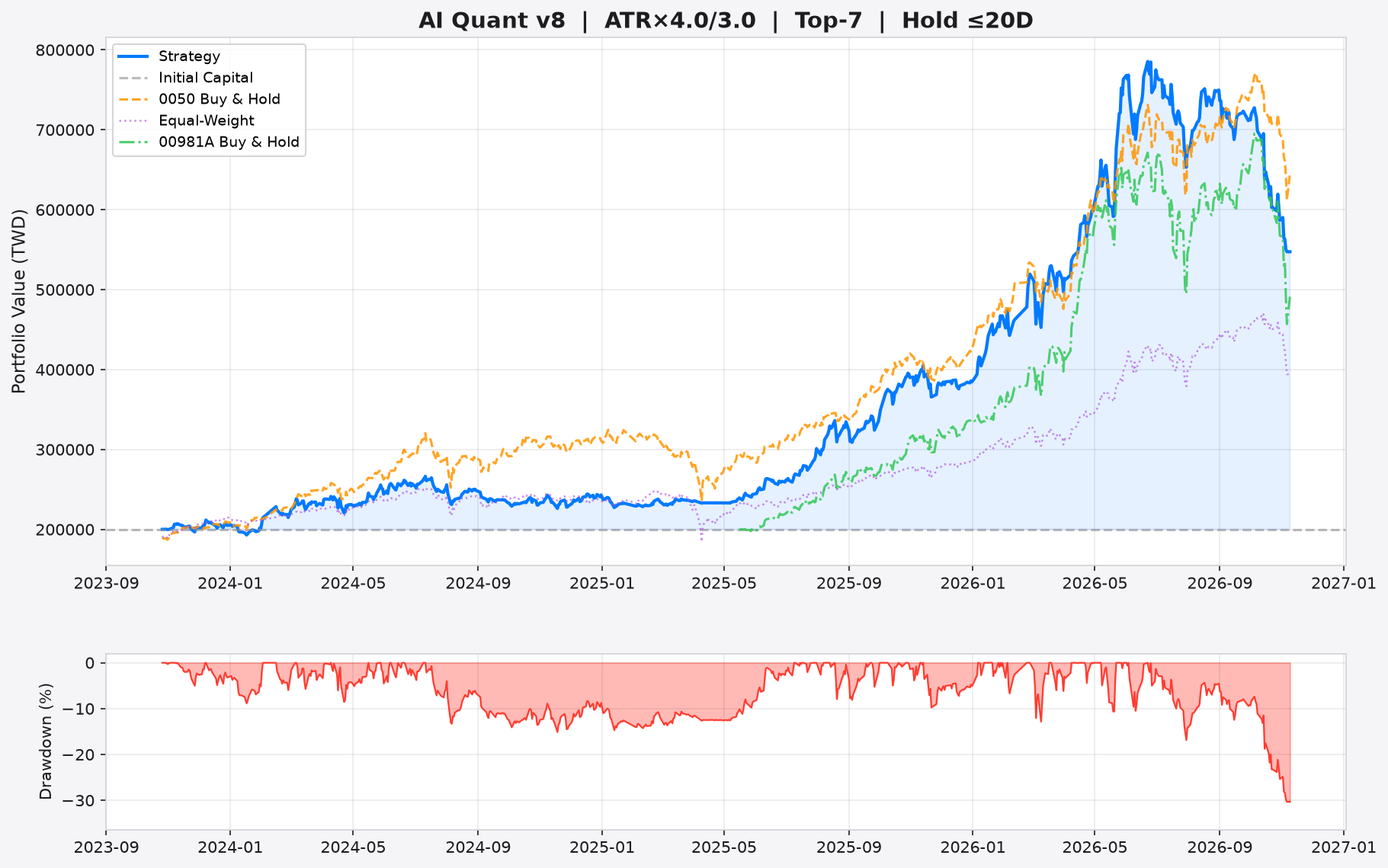
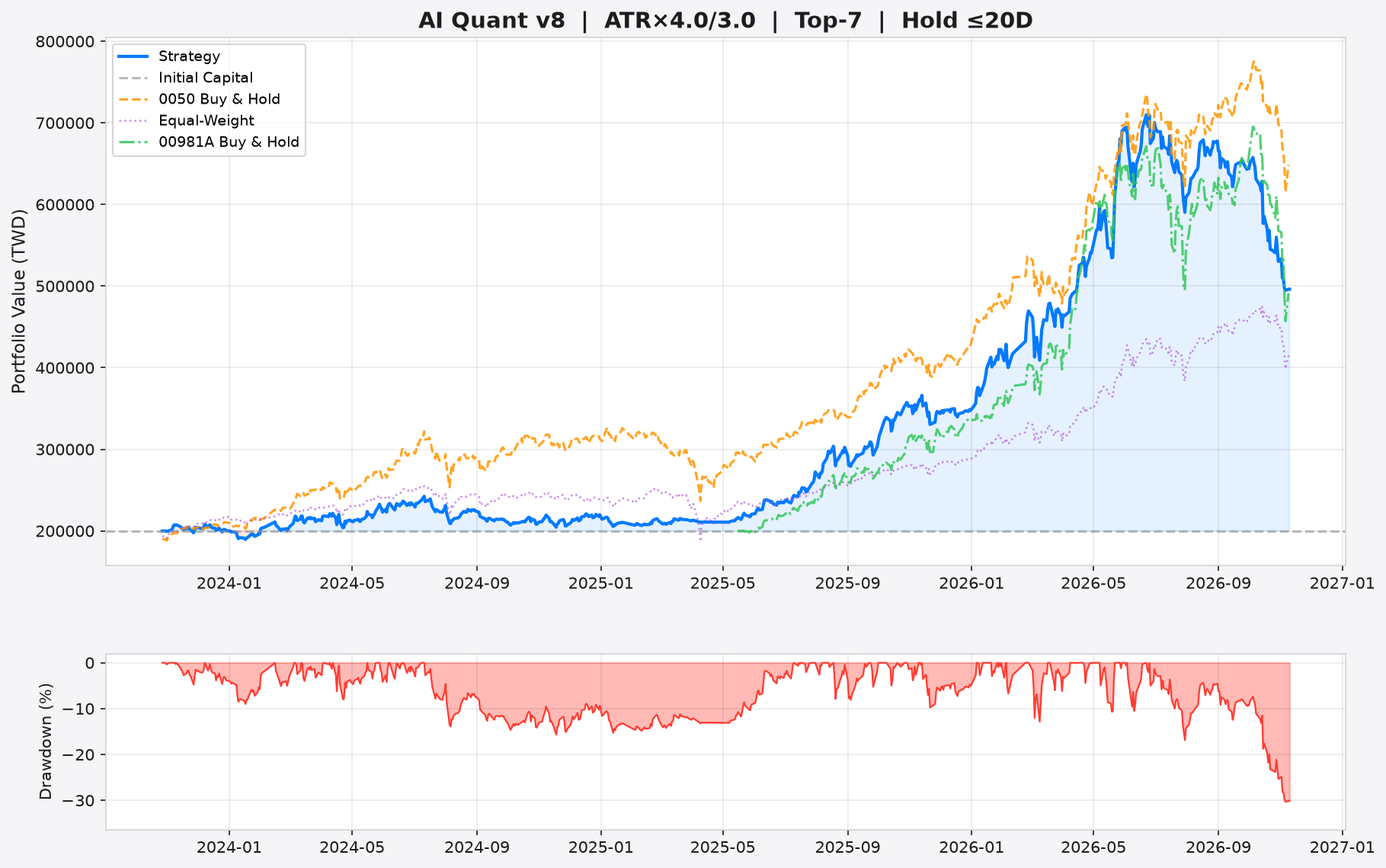
📊 AI Report v8.5 + Paper Trading (2026-11-10)

diff --git a/stock_report.html b/stock_report.html
@@ -3,7 +3,7 @@
 <head>
     <meta charset="utf-8">
     <meta name="viewport" content="width=device-width, initial-scale=1.0">
-    <title>AI 台股量化交易 v8.5 — 2026-11-09</title>
+    <title>AI 台股量化交易 v8.5 — 2026-11-10</title>
     <meta name="description" content="AI 驅動的台股量化交易系統 v8.5，完整風險報告、Benchmark 對比、OCO 智慧掛單建議">
     <script>
         (function() {
@@ -292,7 +292,7 @@
 
     <h1>🎯 AI 台股量化交易 v8.5</h1>
     <p class="subtitle">
-        Event-Driven System &nbsp;|&nbsp; 報表日期: 2026-11-09 &nbsp;|&nbsp;
+        Event-Driven System &nbsp;|&nbsp; 報表日期: 2026-11-10 &nbsp;|&nbsp;
         <span class="config-badge">🛡 ATR×4.0/3.0</span>
         <span class="config-badge">🎯 Top-7</span>
         <span class="config-badge">⏱ 最長 20 天</span>
@@ -303,23 +303,23 @@
     <div class="stats">
         <div class="stat-card">
             <div class="label">策略總報酬率</div>
-            <div class="value" style="color:#00ff00;">+173.7%</div>
+            <div class="value" style="color:#00ff00;">+148.1%</div>
         </div>
         <div class="stat-card">
             <div class="label">年化報酬率</div>
-            <div class="value" style="color:#00ff00;">+41.2%</div>
+            <div class="value" style="color:#00ff00;">+36.5%</div>
         </div>
         <div class="stat-card">
             <div class="label">年化波動率</div>
-            <div class="value">27.6%</div>
+            <div class="value">27.3%</div>
         </div>
         <div class="stat-card risk">
             <div class="label">Sharpe Ratio</div>
-            <div class="value" style="color:#00ff00;">1.39</div>
+            <div class="value" style="color:#00ff00;">1.28</div>
         </div>
         <div class="stat-card risk">
             <div class="label">Sortino Ratio</div>
-            <div class="value">1.98</div>
+            <div class="value">1.76</div>
         </div>
         <div class="stat-card risk">
             <div class="label">最大回撤</div>
@@ -327,7 +327,7 @@
         </div>
         <div class="stat-card risk">
             <div class="label">Calmar Ratio</div>
-            <div class="value">1.36</div>
+            <div class="value">1.20</div>
         </div>
         <div class="stat-card">
             <div class="label">完成交易數</div>
@@ -335,15 +335,15 @@
         </div>
         <div class="stat-card">
             <div class="label">勝率</div>
-            <div class="value" style="color:#00ff00;">54.0%</div>
+            <div class="value" style="color:#00ff00;">52.9%</div>
         </div>
         <div class="stat-card">
             <div class="label">Profit Factor</div>
-            <div class="value">1.50</div>
+            <div class="value">1.45</div>
         </div>
         <div class="stat-card">
             <div class="label">平均報酬/筆</div>
-            <div class="value">+2.32%</div>
+            <div class="value">+2.11%</div>
         </div>
         <div class="stat-card">
             <div class="label">平均持有天數</div>
@@ -370,18 +370,23 @@
             </tr>
         </thead>
         <tbody>
-<tr><td>2412</td><td>4.00</td><td>163.5</td><td><span style="color:#00ff00; font-weight:bold;">🟢 建議買進 #1</span></td><td><b>停利:</b> <span style="color:#00ff00">188.0</span> (+15.0%) <br><b>停損:</b> <span style="color:#ff4444">150.4</span> (-8.0%) <br><b>最晚出場:</b> 2026-12-07</td><td><span style="font-size:0.72rem; color:#888;">歷史 <b>2</b>筆 | 勝率 <b style="color:#00ff00">100%</b> | 均報酬 <b style="color:#00ff00">+1.6%</b></span></td><td><span style="font-size:0.78rem;">🟡 小買<br><span style="color:#ffab00; font-weight:bold;">+1.1%</span></span></td><td><span style="font-size:0.78rem;">⚪ 中性</span></td></tr>
-<tr><td>2891</td><td>3.90</td><td>73.4</td><td><span style="color:#00ff00; font-weight:bold;">🟢 建議買進 #2</span></td><td><b>停利:</b> <span style="color:#00ff00">84.4</span> (+15.0%) <br><b>停損:</b> <span style="color:#ff4444">67.5</span> (-8.0%) <br><b>最晚出場:</b> 2026-12-07</td><td><span style="font-size:0.72rem; color:#888;">歷史 <b>3</b>筆 | 勝率 <b style="color:#00ff00">67%</b> | 均報酬 <b style="color:#ff4444">-2.1%</b></span></td><td><span style="font-size:0.78rem;">⚪ 無資料<br><span style="color:#888; font-weight:bold;">+0.0%</span></span></td><td><span style="font-size:0.78rem;">⚪ 中性</span></td></tr>
-<tr><td>2886</td><td>3.87</td><td>53.5</td><td><span style="color:#00ff00; font-weight:bold;">🟢 建議買進 #3</span></td><td><b>停利:</b> <span style="color:#00ff00">61.5</span> (+15.0%) <br><b>停損:</b> <span style="color:#ff4444">49.2</span> (-8.0%) <br><b>最晚出場:</b> 2026-12-07</td><td><span style="font-size:0.72rem; color:#555;">歷史資料不足</span></td><td><span style="font-size:0.78rem;">⚪ 無資料<br><span style="color:#888; font-weight:bold;">+0.0%</span></span></td><td><span style="font-size:0.78rem;">⚪ 中性</span></td></tr>
-<tr><td>3045</td><td>3.83</td><td>133.0</td><td><span style="color:#00ff00; font-weight:bold;">🟢 建議買進 #4</span></td><td><b>停利:</b> <span style="color:#00ff00">152.9</span> (+15.0%) <br><b>停損:</b> <span style="color:#ff4444">122.4</span> (-8.0%) <br><b>最晚出場:</b> 2026-12-07</td><td><span style="font-size:0.72rem; color:#888;">歷史 <b>3</b>筆 | 勝率 <b style="color:#ff4444">33%</b> | 均報酬 <b style="color:#ff4444">-0.1%</b></span></td><td><span style="font-size:0.78rem;">🟡 小買<br><span style="color:#ffab00; font-weight:bold;">+0.7%</span></span></td><td><span style="font-size:0.78rem;">⚪ 中性</span></td></tr>
-<tr><td>2603</td><td>3.65</td><td>246.5</td><td><span style="color:#00ff00; font-weight:bold;">🟢 建議買進 #5</span></td><td><b>停利:</b> <span style="color:#00ff00">283.5</span> (+15.0%) <br><b>停損:</b> <span style="color:#ff4444">226.8</span> (-8.0%) <br><b>最晚出場:</b> 2026-12-07</td><td><span style="font-size:0.72rem; color:#888;">歷史 <b>10</b>筆 | 勝率 <b style="color:#ff4444">20%</b> | 均報酬 <b style="color:#ff4444">-4.5%</b></span></td><td><span style="font-size:0.78rem;">🟡 小買<br><span style="color:#ffab00; font-weight:bold;">+1.6%</span></span></td><td><span style="font-size:0.78rem;">⚪ 中性</span></td></tr>
-<tr><td>2884</td><td>3.63</td><td>47.0</td><td><span style="color:#00ff00; font-weight:bold;">🟢 建議買進 #6</span></td><td><b>停利:</b> <span style="color:#00ff00">54.0</span> (+15.0%) <br><b>停損:</b> <span style="color:#ff4444">43.2</span> (-8.0%) <br><b>最晚出場:</b> 2026-12-07</td><td><span style="font-size:0.72rem; color:#888;">歷史 <b>6</b>筆 | 勝率 <b style="color:#00ff00">67%</b> | 均報酬 <b style="color:#ff4444">-0.6%</b></span></td><td><span style="font-size:0.78rem;">⚪ 無資料<br><span style="color:#888; font-weight:bold;">+0.0%</span></span></td><td><span style="font-size:0.78rem;">⚪ 中性</span></td></tr>
-<tr><td>1101</td><td>3.57</td><td>26.8</td><td><span style="color:#00ff00; font-weight:bold;">🟢 建議買進 #7</span></td><td><b>停利:</b> <span style="color:#00ff00">30.8</span> (+15.0%) <br><b>停損:</b> <span style="color:#ff4444">24.6</span> (-8.0%) <br><b>最晚出場:</b> 2026-12-07</td><td><span style="font-size:0.72rem; color:#555;">歷史資料不足</span></td><td><span style="font-size:0.78rem;">⚪ 無資料<br><span style="color:#888; font-weight:bold;">+0.0%</span></span></td><td><span style="font-size:0.78rem;">⚪ 中性</span></td></tr>
-<tr style="opacity:0.4"><td>6446</td><td>3.68</td><td>1270.0</td><td><span style="color:#aaaaaa">⚪ 觀望 (低於 MA)</span></td><td>-</td><td>-</td><td style="color:#555">-</td><td style="color:#555">-</td></tr>
-<tr style="opacity:0.4"><td>4938</td><td>3.45</td><td>92.9</td><td><span style="color:#aaaaaa">⚪ 觀望 (低於 MA)</span></td><td>-</td><td>-</td><td style="color:#555">-</td><td style="color:#555">-</td></tr>
-<tr style="opacity:0.4"><td>2885</td><td>3.38</td><td>66.9</td><td><span style="color:#aaaaaa">⚪ 觀望 (低於 MA)</span></td><td>-</td><td>-</td><td style="color:#555">-</td><td style="color:#555">-</td></tr>
-<tr style="opacity:0.4"><td>2881</td><td>3.37</td><td>148.0</td><td><span style="color:#aaaaaa">⚪ 觀望 (低於 MA)</span></td><td>-</td><td>-</td><td style="color:#555">-</td><td style="color:#555">-</td></tr>
-<tr style="opacity:0.4"><td>2882</td><td>3.22</td><td>106.0</td><td><span style="color:#aaaaaa">⚪ 觀望 (低於 MA)</span></td><td>-</td><td>-</td><td style="color:#555">-</td><td style="color:#555">-</td></tr>
+<tr><td>6446</td><td>3.97</td><td>1370.0</td><td><span style="color:#00ff00; font-weight:bold;">🟢 建議買進 #1</span></td><td><b>停利:</b> <span style="color:#00ff00">1575.5</span> (+15.0%) <br><b>停損:</b> <span style="color:#ff4444">1260.4</span> (-8.0%) <br><b>最晚出場:</b> 2026-12-08</td><td><span style="font-size:0.72rem; color:#888;">歷史 <b>10</b>筆 | 勝率 <b style="color:#00ff00">50%</b> | 均報酬 <b style="color:#00ff00">+2.2%</b></span></td><td><span style="font-size:0.78rem;">🟠 小賣<br><span style="color:#ffab00; font-weight:bold;">-0.8%</span></span></td><td><span style="font-size:0.78rem;">⚪ 中性</span></td></tr>
+<tr><td>2891</td><td>3.95</td><td>75.9</td><td><span style="color:#00ff00; font-weight:bold;">🟢 建議買進 #2</span></td><td><b>停利:</b> <span style="color:#00ff00">87.3</span> (+15.0%) <br><b>停損:</b> <span style="color:#ff4444">69.8</span> (-8.0%) <br><b>最晚出場:</b> 2026-12-08</td><td><span style="font-size:0.72rem; color:#888;">歷史 <b>4</b>筆 | 勝率 <b style="color:#00ff00">75%</b> | 均報酬 <b style="color:#ff4444">-0.2%</b></span></td><td><span style="font-size:0.78rem;">⚪ 無資料<br><span style="color:#888; font-weight:bold;">+0.0%</span></span></td><td><span style="font-size:0.78rem;">⚪ 中性</span></td></tr>
+<tr><td>2412</td><td>3.88</td><td>159.0</td><td><span style="color:#00ff00; font-weight:bold;">🟢 建議買進 #3</span></td><td><b>停利:</b> <span style="color:#00ff00">182.8</span> (+15.0%) <br><b>停損:</b> <span style="color:#ff4444">146.3</span> (-8.0%) <br><b>最晚出場:</b> 2026-12-08</td><td><span style="font-size:0.72rem; color:#888;">歷史 <b>2</b>筆 | 勝率 <b style="color:#00ff00">100%</b> | 均報酬 <b style="color:#00ff00">+1.6%</b></span></td><td><span style="font-size:0.78rem;">🟡 小買<br><span style="color:#ffab00; font-weight:bold;">+1.1%</span></span></td><td><span style="font-size:0.78rem;">⚪ 中性</span></td></tr>
+<tr><td>3045</td><td>3.80</td><td>131.0</td><td><span style="color:#00ff00; font-weight:bold;">🟢 建議買進 #4</span></td><td><b>停利:</b> <span style="color:#00ff00">150.6</span> (+15.0%) <br><b>停損:</b> <span style="color:#ff4444">120.5</span> (-8.0%) <br><b>最晚出場:</b> 2026-12-08</td><td><span style="font-size:0.72rem; color:#888;">歷史 <b>3</b>筆 | 勝率 <b style="color:#ff4444">33%</b> | 均報酬 <b style="color:#ff4444">-0.1%</b></span></td><td><span style="font-size:0.78rem;">🟡 小買<br><span style="color:#ffab00; font-weight:bold;">+0.7%</span></span></td><td><span style="font-size:0.78rem;">⚪ 中性</span></td></tr>
+<tr><td>2886</td><td>3.70</td><td>52.8</td><td><span style="color:#00ff00; font-weight:bold;">🟢 建議買進 #5</span></td><td><b>停利:</b> <span style="color:#00ff00">60.7</span> (+15.0%) <br><b>停損:</b> <span style="color:#ff4444">48.6</span> (-8.0%) <br><b>最晚出場:</b> 2026-12-08</td><td><span style="font-size:0.72rem; color:#555;">歷史資料不足</span></td><td><span style="font-size:0.78rem;">⚪ 無資料<br><span style="color:#888; font-weight:bold;">+0.0%</span></span></td><td><span style="font-size:0.78rem;">⚪ 中性</span></td></tr>
+<tr><td>2884</td><td>3.68</td><td>47.3</td><td><span style="color:#00ff00; font-weight:bold;">🟢 建議買進 #6</span></td><td><b>停利:</b> <span style="color:#00ff00">54.4</span> (+15.0%) <br><b>停損:</b> <span style="color:#ff4444">43.5</span> (-8.0%) <br><b>最晚出場:</b> 2026-12-08</td><td><span style="font-size:0.72rem; color:#888;">歷史 <b>6</b>筆 | 勝率 <b style="color:#00ff00">67%</b> | 均報酬 <b style="color:#ff4444">-0.6%</b></span></td><td><span style="font-size:0.78rem;">⚪ 無資料<br><span style="color:#888; font-weight:bold;">+0.0%</span></span></td><td><span style="font-size:0.78rem;">⚪ 中性</span></td></tr>
+<tr><td>1101</td><td>3.57</td><td>26.8</td><td><span style="color:#00ff00; font-weight:bold;">🟢 建議買進 #7</span></td><td><b>停利:</b> <span style="color:#00ff00">30.8</span> (+15.0%) <br><b>停損:</b> <span style="color:#ff4444">24.7</span> (-8.0%) <br><b>最晚出場:</b> 2026-12-08</td><td><span style="font-size:0.72rem; color:#555;">歷史資料不足</span></td><td><span style="font-size:0.78rem;">⚪ 無資料<br><span style="color:#888; font-weight:bold;">+0.0%</span></span></td><td><span style="font-size:0.78rem;">⚪ 中性</span></td></tr>
+<tr style="opacity:0.6"><td>2379</td><td>3.52</td><td>743.0</td><td><span style="color:#ffab00">🟡 候選 (超出 Top-K)</span></td><td>-</td><td><span style="font-size:0.72rem; color:#888;">勝率 <b style="color:#ff4444">0%</b></span></td><td><span style="font-size:0.72rem;">🟢 大買<br><span style="color:#00ff00">+2.5%</span></span></td><td><span style="font-size:0.72rem;">⚪</span></td></tr>
+<tr style="opacity:0.6"><td>2885</td><td>3.40</td><td>69.4</td><td><span style="color:#ffab00">🟡 候選 (超出 Top-K)</span></td><td>-</td><td><span style="font-size:0.72rem; color:#555;">-</span></td><td><span style="font-size:0.72rem;">⚪ 無資料<br><span style="color:#888">+0.0%</span></span></td><td><span style="font-size:0.72rem;">⚪</span></td></tr>
+<tr style="opacity:0.6"><td>2882</td><td>3.33</td><td>111.0</td><td><span style="color:#ffab00">🟡 候選 (超出 Top-K)</span></td><td>-</td><td><span style="font-size:0.72rem; color:#888;">勝率 <b style="color:#ff4444">25%</b></span></td><td><span style="font-size:0.72rem;">⚪ 無資料<br><span style="color:#888">+0.0%</span></span></td><td><span style="font-size:0.72rem;">⚪</span></td></tr>
+<tr style="opacity:0.6"><td>2881</td><td>3.27</td><td>153.5</td><td><span style="color:#ffab00">🟡 候選 (超出 Top-K)</span></td><td>-</td><td><span style="font-size:0.72rem; color:#888;">勝率 <b style="color:#ff4444">20%</b></span></td><td><span style="font-size:0.72rem;">⚪ 無資料<br><span style="color:#888">+0.0%</span></span></td><td><span style="font-size:0.72rem;">⚪</span></td></tr>
+<tr style="opacity:0.6"><td>4938</td><td>3.18</td><td>95.4</td><td><span style="color:#ffab00">🟡 候選 (超出 Top-K)</span></td><td>-</td><td><span style="font-size:0.72rem; color:#888;">勝率 <b style="color:#ff4444">0%</b></span></td><td><span style="font-size:0.72rem;">🟡 小買<br><span style="color:#888">+0.7%</span></span></td><td><span style="font-size:0.72rem;">⚪</span></td></tr>
+<tr style="opacity:0.4"><td>2317</td><td>3.15</td><td>239.0</td><td><span style="color:#aaaaaa">⚪ 觀望 (低於 MA)</span></td><td>-</td><td>-</td><td style="color:#555">-</td><td style="color:#555">-</td></tr>
+<tr style="opacity:0.4"><td>6415</td><td>3.08</td><td>427.5</td><td><span style="color:#aaaaaa">⚪ 觀望 (低於 MA)</span></td><td>-</td><td>-</td><td style="color:#555">-</td><td style="color:#555">-</td></tr>
+<tr style="opacity:0.4"><td>2890</td><td>2.93</td><td>42.1</td><td><span style="color:#aaaaaa">⚪ 觀望 (低於 MA)</span></td><td>-</td><td>-</td><td style="color:#555">-</td><td style="color:#555">-</td></tr>
+<tr style="opacity:0.4"><td>2887</td><td>2.90</td><td>40.0</td><td><span style="color:#aaaaaa">⚪ 觀望 (低於 MA)</span></td><td>-</td><td>-</td><td style="color:#555">-</td><td style="color:#555">-</td></tr>
+<tr style="opacity:0.4"><td>3533</td><td>2.78</td><td>1705.0</td><td><span style="color:#aaaaaa">⚪ 觀望 (低於 MA)</span></td><td>-</td><td>-</td><td style="color:#555">-</td><td style="color:#555">-</td></tr>
 
         </tbody>
     </table>
@@ -456,7 +461,7 @@
     <div class="stats">
         <div class="stat-card benchmark">
             <div class="label">0050 年化報酬</div>
-            <div class="value">+44.8%</div>
+            <div class="value">+45.1%</div>
         </div>
         <div class="stat-card benchmark">
             <div class="label">0050 最大回撤</div>
@@ -464,11 +469,11 @@
         </div>
         <div class="stat-card benchmark">
             <div class="label">0050 Sharpe</div>
-            <div class="value">1.57</div>
+            <div class="value">1.58</div>
         </div>
         <div class="stat-card" style="border-left-color:#ff4444">
             <div class="label">超額年化報酬 (α)</div>
-            <div class="value" style="color:#ff4444">-3.6%</div>
+            <div class="value" style="color:#ff4444">-8.6%</div>
         </div>
     </div>
 
@@ -487,7 +492,7 @@
         </div>
         <div class="stat-card" style="border-left-color:#ff4444">
             <div class="label">超額 vs 00981A (共存期)</div>
-            <div class="value" style="color:#ff4444">-16.9%</div>
+            <div class="value" style="color:#ff4444">-16.3%</div>
         </div>
     </div>
     <img src="backtest_chart.png" alt="AI Quantitative Backtest Equity Curve with Benchmark">
@@ -524,22 +529,22 @@
     <div class="stats">
         <div class="stat-card risk">
             <div class="label">目前回撤</div>
-            <div class="value" style="color:#ff4444">-30.3%</div>
+            <div class="value" style="color:#ff4444">-30.1%</div>
         </div>
         <div class="stat-card">
             <div class="label">權益最高點</div>
-            <div class="value">785,550</div>
+            <div class="value">709,992</div>
         </div>
         <div class="stat-card">
             <div class="label">歷史回撤次數</div>
-            <div class="value">32</div>
+            <div class="value">34</div>
         </div>
     </div>
     <table>
         <thead><tr><th>#</th><th>開始日</th><th>恢復日</th><th>最大深度</th><th>持續天數</th></tr></thead>
         <tbody>
-<tr><td>#1</td><td>2026-06-26</td><td>2026-11-09</td><td style="color:#ff4444; font-weight:bold">-30.3%</td><td>136 天</td></tr>
-<tr><td>#2</td><td>2024-07-12</td><td>2025-07-09</td><td style="color:#ff4444; font-weight:bold">-15.1%</td><td>362 天</td></tr>
+<tr><td>#1</td><td>2026-06-26</td><td>2026-11-10</td><td style="color:#ff4444; font-weight:bold">-30.3%</td><td>137 天</td></tr>
+<tr><td>#2</td><td>2024-07-12</td><td>2025-07-09</td><td style="color:#ff4444; font-weight:bold">-15.7%</td><td>362 天</td></tr>
 <tr><td>#3</td><td>2026-03-02</td><td>2026-03-17</td><td style="color:#ff4444; font-weight:bold">-12.9%</td><td>15 天</td></tr>
 <tr><td>#4</td><td>2026-05-08</td><td>2026-05-22</td><td style="color:#ff4444; font-weight:bold">-10.7%</td><td>14 天</td></tr>
 <tr><td>#5</td><td>2026-06-04</td><td>2026-06-18</td><td style="color:#ff4444; font-weight:bold">-10.5%</td><td>14 天</td></tr>
@@ -553,15 +558,15 @@
     <div class="stats">
         <div class="stat-card" style="border-left-color:#ff4444">
             <div class="label">近 60 日 Sharpe</div>
-            <div class="value" style="color:#ff4444">-3.40</div>
+            <div class="value" style="color:#ff4444">-3.46</div>
         </div>
         <div class="stat-card">
             <div class="label">歷史平均 Sharpe</div>
-            <div class="value">1.69</div>
+            <div class="value">1.56</div>
         </div>
         <div class="stat-card risk">
             <div class="label">歷史最低 Sharpe</div>
-            <div class="value">-3.40</div>
+            <div class="value">-3.46</div>
         </div>
         <div class="stat-card">
             <div class="label">歷史最高 Sharpe</div>
@@ -591,9 +596,9 @@
     <table>
         <thead><tr><th>出場原因</th><th>次數</th><th>平均報酬</th></tr></thead>
         <tbody>
-<tr><td>🟢 停利</td><td>206 筆</td><td style="color:#00ff00">+16.65%</td></tr>
-<tr><td>⚪ 時間到期</td><td>204 筆</td><td style="color:#ff4444">-0.32%</td></tr>
-<tr><td>🔴 停損</td><td>157 筆</td><td style="color:#ff4444">-13.06%</td></tr>
+<tr><td>⚪ 時間到期</td><td>206 筆</td><td style="color:#ff4444">-0.53%</td></tr>
+<tr><td>🟢 停利</td><td>204 筆</td><td style="color:#00ff00">+16.45%</td></tr>
+<tr><td>🔴 停損</td><td>157 筆</td><td style="color:#ff4444">-13.05%</td></tr>
 
         </tbody>
     </table>
@@ -603,14 +608,14 @@
 
     <table>
         <thead><tr><th>報酬區間</th><th>筆數</th><th>佔比</th><th>分布</th></tr></thead>
-        <tbody><tr><td>< -15%</td><td>44</td><td>7.8%</td><td><div style="background:#ff4444; width:23.28042328042328%; height:14px; border-radius:3px; opacity:0.6"></div></td></tr>
-<tr><td>-15~-10%</td><td>87</td><td>15.3%</td><td><div style="background:#ff4444; width:46.03174603174603%; height:14px; border-radius:3px; opacity:0.6"></div></td></tr>
+        <tbody><tr><td>< -15%</td><td>43</td><td>7.6%</td><td><div style="background:#ff4444; width:22.75132275132275%; height:14px; border-radius:3px; opacity:0.6"></div></td></tr>
+<tr><td>-15~-10%</td><td>90</td><td>15.9%</td><td><div style="background:#ff4444; width:47.61904761904761%; height:14px; border-radius:3px; opacity:0.6"></div></td></tr>
 <tr><td>-10~-5%</td><td>75</td><td>13.2%</td><td><div style="background:#ff4444; width:39.68253968253968%; height:14px; border-radius:3px; opacity:0.6"></div></td></tr>
-<tr><td>-5~0%</td><td>55</td><td>9.7%</td><td><div style="background:#ff4444; width:29.1005291005291%; height:14px; border-radius:3px; opacity:0.6"></div></td></tr>
-<tr><td>0~5%</td><td>62</td><td>10.9%</td><td><div style="background:#00ff00; width:32.804232804232804%; height:14px; border-radius:3px; opacity:0.6"></div></td></tr>
-<tr><td>5~10%</td><td>38</td><td>6.7%</td><td><div style="background:#00ff00; width:20.105820105820108%; height:14px; border-radius:3px; opacity:0.6"></div></td></tr>
-<tr><td>10~20%</td><td>154</td><td>27.2%</td><td><div style="background:#00ff00; width:81.48148148148148%; height:14px; border-radius:3px; opacity:0.6"></div></td></tr>
-<tr><td>> 20%</td><td>52</td><td>9.2%</td><td><div style="background:#00ff00; width:27.51322751322751%; height:14px; border-radius:3px; opacity:0.6"></div></td></tr>
+<tr><td>-5~0%</td><td>59</td><td>10.4%</td><td><div style="background:#ff4444; width:31.216931216931215%; height:14px; border-radius:3px; opacity:0.6"></div></td></tr>
+<tr><td>0~5%</td><td>59</td><td>10.4%</td><td><div style="background:#00ff00; width:31.216931216931215%; height:14px; border-radius:3px; opacity:0.6"></div></td></tr>
+<tr><td>5~10%</td><td>39</td><td>6.9%</td><td><div style="background:#00ff00; width:20.634920634920633%; height:14px; border-radius:3px; opacity:0.6"></div></td></tr>
+<tr><td>10~20%</td><td>152</td><td>26.8%</td><td><div style="background:#00ff00; width:80.42328042328043%; height:14px; border-radius:3px; opacity:0.6"></div></td></tr>
+<tr><td>> 20%</td><td>50</td><td>8.8%</td><td><div style="background:#00ff00; width:26.455026455026452%; height:14px; border-radius:3px; opacity:0.6"></div></td></tr>
 </tbody>
     </table>
 
@@ -620,26 +625,26 @@
     <h3 style="color:#00e5ff; margin-top:16px">🏆 Top 10 貢獻股</h3>
     <table>
         <thead><tr><th>股票</th><th>交易數</th><th>勝率</th><th>平均報酬</th><th>總貢獻</th></tr></thead>
-        <tbody><tr><td><b>2383</b></td><td>15</td><td style="color:#00ff00">80%</td><td style="color:#00ff00">+11.8%</td><td style="color:#00ff00; font-weight:bold">+177.1%</td></tr>
-<tr><td><b>3017</b></td><td>18</td><td style="color:#00ff00">83%</td><td style="color:#00ff00">+9.4%</td><td style="color:#00ff00; font-weight:bold">+169.7%</td></tr>
+        <tbody><tr><td><b>2383</b></td><td>14</td><td style="color:#00ff00">79%</td><td style="color:#00ff00">+12.0%</td><td style="color:#00ff00; font-weight:bold">+168.1%</td></tr>
 <tr><td><b>2344</b></td><td>14</td><td style="color:#00ff00">79%</td><td style="color:#00ff00">+11.1%</td><td style="color:#00ff00; font-weight:bold">+155.0%</td></tr>
+<tr><td><b>3017</b></td><td>17</td><td style="color:#00ff00">82%</td><td style="color:#00ff00">+9.1%</td><td style="color:#00ff00; font-weight:bold">+153.9%</td></tr>
 <tr><td><b>2408</b></td><td>16</td><td style="color:#00ff00">75%</td><td style="color:#00ff00">+9.0%</td><td style="color:#00ff00; font-weight:bold">+143.9%</td></tr>
 <tr><td><b>6770</b></td><td>9</td><td style="color:#00ff00">89%</td><td style="color:#00ff00">+12.9%</td><td style="color:#00ff00; font-weight:bold">+115.9%</td></tr>
-<tr><td><b>1519</b></td><td>17</td><td style="color:#00ff00">59%</td><td style="color:#00ff00">+6.3%</td><td style="color:#00ff00; font-weight:bold">+107.7%</td></tr>
 <tr><td><b>1303</b></td><td>14</td><td style="color:#00ff00">71%</td><td style="color:#00ff00">+6.4%</td><td style="color:#00ff00; font-weight:bold">+88.9%</td></tr>
 <tr><td><b>2327</b></td><td>10</td><td style="color:#00ff00">70%</td><td style="color:#00ff00">+8.5%</td><td style="color:#00ff00; font-weight:bold">+84.9%</td></tr>
+<tr><td><b>1519</b></td><td>17</td><td style="color:#00ff00">59%</td><td style="color:#00ff00">+4.9%</td><td style="color:#00ff00; font-weight:bold">+83.1%</td></tr>
 <tr><td><b>3037</b></td><td>11</td><td style="color:#00ff00">64%</td><td style="color:#00ff00">+7.1%</td><td style="color:#00ff00; font-weight:bold">+77.6%</td></tr>
-<tr><td><b>5274O</b></td><td>14</td><td style="color:#00ff00">79%</td><td style="color:#00ff00">+5.5%</td><td style="color:#00ff00; font-weight:bold">+77.1%</td></tr>
+<tr><td><b>5274O</b></td><td>15</td><td style="color:#00ff00">73%</td><td style="color:#00ff00">+4.7%</td><td style="color:#00ff00; font-weight:bold">+70.5%</td></tr>
 </tbody>
     </table>
     <h3 style="color:#ff4444; margin-top:16px">📉 Bottom 5 虧損股</h3>
     <table>
         <thead><tr><th>股票</th><th>交易數</th><th>勝率</th><th>平均報酬</th><th>總貢獻</th></tr></thead>
-        <tbody><tr style="opacity:0.7"><td><b>4938</b></td><td>4</td><td style="color:#ff4444">0%</td><td style="color:#ff4444">-8.1%</td><td style="color:#ff4444; font-weight:bold">-32.4%</td></tr>
-<tr style="opacity:0.7"><td><b>2609</b></td><td>14</td><td style="color:#ff4444">29%</td><td style="color:#ff4444">-3.0%</td><td style="color:#ff4444; font-weight:bold">-42.4%</td></tr>
-<tr style="opacity:0.7"><td><b>2603</b></td><td>10</td><td style="color:#ff4444">20%</td><td style="color:#ff4444">-4.5%</td><td style="color:#ff4444; font-weight:bold">-44.7%</td></tr>
+        <tbody><tr style="opacity:0.7"><td><b>2605</b></td><td>3</td><td style="color:#ff4444">0%</td><td style="color:#ff4444">-10.7%</td><td style="color:#ff4444; font-weight:bold">-32.1%</td></tr>
+<tr style="opacity:0.7"><td><b>2609</b></td><td>14</td><td style="color:#ff4444">29%</td><td style="color:#ff4444">-3.1%</td><td style="color:#ff4444; font-weight:bold">-43.0%</td></tr>
 <tr style="opacity:0.7"><td><b>1301</b></td><td>4</td><td style="color:#ff4444">0%</td><td style="color:#ff4444">-11.3%</td><td style="color:#ff4444; font-weight:bold">-45.2%</td></tr>
 <tr style="opacity:0.7"><td><b>1326</b></td><td>6</td><td style="color:#ff4444">0%</td><td style="color:#ff4444">-9.8%</td><td style="color:#ff4444; font-weight:bold">-59.0%</td></tr>
+<tr style="opacity:0.7"><td><b>2603</b></td><td>10</td><td style="color:#ff4444">20%</td><td style="color:#ff4444">-6.3%</td><td style="color:#ff4444; font-weight:bold">-63.3%</td></tr>
 </tbody>
     </table>
 
@@ -682,15 +687,15 @@
     <table style="max-width:400px">
         <thead><tr><th>月份</th><th>月報酬</th></tr></thead>
         <tbody>
-<tr style="background:rgba(0,255,0,0.04)"><td>2023-11</td><td style="color:#00ff00; font-weight:bold">+1.2%</td></tr>
-<tr style="background:rgba(0,255,0,0.04)"><td>2023-12</td><td style="color:#00ff00; font-weight:bold">+1.4%</td></tr>
+<tr style="background:rgba(0,255,0,0.07)"><td>2023-11</td><td style="color:#00ff00; font-weight:bold">+2.2%</td></tr>
+<tr style="background:rgba(255,68,68,0.05)"><td>2023-12</td><td style="color:#ff4444; font-weight:bold">-1.7%</td></tr>
 <tr style="background:rgba(255,68,68,0.06)"><td>2024-01</td><td style="color:#ff4444; font-weight:bold">-2.0%</td></tr>
-<tr style="background:rgba(0,255,0,0.30)"><td>2024-02</td><td style="color:#00ff00; font-weight:bold">+10.2%</td></tr>
-<tr style="background:rgba(0,255,0,0.15)"><td>2024-03</td><td style="color:#00ff00; font-weight:bold">+5.1%</td></tr>
+<tr style="background:rgba(0,255,0,0.13)"><td>2024-02</td><td style="color:#00ff00; font-weight:bold">+4.2%</td></tr>
+<tr style="background:rgba(0,255,0,0.14)"><td>2024-03</td><td style="color:#00ff00; font-weight:bold">+4.5%</td></tr>
 <tr style="background:rgba(255,68,68,0.02)"><td>2024-04</td><td style="color:#ff4444; font-weight:bold">-0.8%</td></tr>
-<tr style="background:rgba(0,255,0,0.18)"><td>2024-05</td><td style="color:#00ff00; font-weight:bold">+5.8%</td></tr>
-<tr style="background:rgba(0,255,0,0.16)"><td>2024-06</td><td style="color:#00ff00; font-weight:bold">+5.4%</td></tr>
-<tr style="background:rgba(255,68,68,0.07)"><td>2024-07</td><td style="color:#ff4444; font-weight:bold">-2.5%</td></tr>
+<tr style="background:rgba(0,255,0,0.15)"><td>2024-05</td><td style="color:#00ff00; font-weight:bold">+5.1%</td></tr>
+<tr style="background:rgba(0,255,0,0.15)"><td>2024-06</td><td style="color:#00ff00; font-weight:bold">+5.1%</td></tr>
+<tr style="background:rgba(255,68,68,0.10)"><td>2024-07</td><td style="color:#ff4444; font-weight:bold">-3.3%</td></tr>
 <tr style="background:rgba(255,68,68,0.03)"><td>2024-08</td><td style="color:#ff4444; font-weight:bold">-0.9%</td></tr>
 <tr style="background:rgba(255,68,68,0.18)"><td>2024-09</td><td style="color:#ff4444; font-weight:bold">-6.0%</td></tr>
 <tr style="background:rgba(255,68,68,0.04)"><td>2024-10</td><td style="color:#ff4444; font-weight:bold">-1.3%</td></tr>
@@ -718,7 +723,7 @@
 <tr style="background:rgba(0,255,0,0.30)"><td>2026-08</td><td style="color:#00ff00; font-weight:bold">+11.3%</td></tr>
 <tr style="background:rgba(255,68,68,0.15)"><td>2026-09</td><td style="color:#ff4444; font-weight:bold">-4.8%</td></tr>
 <tr style="background:rgba(255,68,68,0.30)"><td>2026-10</td><td style="color:#ff4444; font-weight:bold">-17.8%</td></tr>
-<tr style="background:rgba(255,68,68,0.20)"><td>2026-11</td><td style="color:#ff4444; font-weight:bold">-6.7%</td></tr>
+<tr style="background:rgba(255,68,68,0.19)"><td>2026-11</td><td style="color:#ff4444; font-weight:bold">-6.4%</td></tr>
 
         </tbody>
     </table>

diff --git a/paper_trading.html b/paper_trading.html
@@ -3,7 +3,7 @@
 <head>
     <meta charset="utf-8">
     <meta name="viewport" content="width=device-width, initial-scale=1.0">
-    <title>Paper Trading v8.5 — 2026-11-09</title>
+    <title>Paper Trading v8.5 — 2026-11-10</title>
     <meta name="description" content="TW Stocker v8.5 Paper Trading 實時績效追蹤">
     <script src="https://cdn.jsdelivr.net/npm/chart.js@4"></script>
     <style>
@@ -92,25 +92,25 @@
     <h1>📈 Paper Trading v8.5</h1>
     <p class="subtitle">
         <span class="badge badge-live">● LIVE</span>
-        起始日 2026-04-22 | 更新 2026-11-09 | 初始資金 200,000 | 保留本金 10%，其餘投入
+        起始日 2026-04-22 | 更新 2026-11-10 | 初始資金 200,000 | 保留本金 10%，其餘投入
     </p>
 
     <div class="metrics">
         <div class="metric">
             <div class="label">總權益</div>
-            <div class="value red">172,243</div>
+            <div class="value red">171,556</div>
         </div>
         <div class="metric">
             <div class="label">總報酬</div>
-            <div class="value red">-13.9%</div>
+            <div class="value red">-14.2%</div>
         </div>
         <div class="metric">
             <div class="label">年化報酬</div>
-            <div class="value red">-24.5%</div>
+            <div class="value red">-24.9%</div>
         </div>
         <div class="metric">
             <div class="label">最大回撤</div>
-            <div class="value red">-30.2%</div>
+            <div class="value red">-30.5%</div>
         </div>
         <div class="metric">
             <div class="label">勝率</div>
@@ -146,7 +146,7 @@
             <td>31.2</td>
             <td>25.5</td>
             <td>2026-10-23</td>
-            <td>11天</td>
+            <td>12天</td>
         </tr>
         <tr>
             <td><b>2412</b></td>
@@ -154,7 +154,7 @@
             <td>167.9</td>
             <td>150.6</td>
             <td>2026-10-23</td>
-            <td>11天</td>
+            <td>12天</td>
         </tr>
         </table>
     </div>
@@ -430,10 +430,10 @@ const ctx = document.getElementById('equityChart').getContext('2d');
 new Chart(ctx, {
     type: 'line',
     data: {
-        labels: ["2026-04-22", "2026-04-23", "2026-04-24", "2026-04-27", "2026-04-29", "2026-04-30", "2026-05-01", "2026-05-04", "2026-05-05", "2026-05-06", "2026-05-07", "2026-05-08", "2026-05-11", "2026-05-12", "2026-05-13", "2026-05-14", "2026-05-15", "2026-05-18", "2026-05-19", "2026-05-20", "2026-05-21", "2026-05-22", "2026-05-25", "2026-05-26", "2026-05-27", "2026-05-28", "2026-05-29", "2026-06-01", "2026-06-02", "2026-06-03", "2026-06-04", "2026-06-05", "2026-06-08", "2026-06-09", "2026-06-10", "2026-06-11", "2026-06-12", "2026-06-15", "2026-06-16", "2026-06-17", "2026-06-18", "2026-06-19", "2026-06-22", "2026-06-23", "2026-06-24", "2026-06-25", "2026-06-26", "2026-06-29", "2026-06-30", "2026-07-01", "2026-07-02", "2026-07-03", "2026-07-06", "2026-07-07", "2026-07-08", "2026-07-09", "2026-07-10", "2026-07-13", "2026-07-14", "2026-07-15", "2026-07-16", "2026-07-17", "2026-07-20", "2026-07-21", "2026-07-22", "2026-07-23", "2026-07-24", "2026-07-27", "2026-07-28", "2026-07-29", "2026-07-30", "2026-07-31", "2026-08-03", "2026-08-04", "2026-08-05", "2026-08-06", "2026-08-07", "2026-08-10", "2026-08-11", "2026-08-12", "2026-08-13", "2026-08-14", "2026-08-17", "2026-08-18", "2026-08-19", "2026-08-20", "2026-08-21", "2026-08-24", "2026-08-25", "2026-08-26", "2026-08-27", "2026-08-28", "2026-08-31", "2026-09-01", "2026-09-02", "2026-09-03", "2026-09-04", "2026-09-07", "2026-09-08", "2026-09-09", "2026-09-10", "2026-09-11", "2026-09-14", "2026-09-15", "2026-09-16", "2026-09-17", "2026-09-18", "2026-09-21", "2026-09-22", "2026-09-23", "2026-09-24", "2026-09-25", "2026-09-28", "2026-09-29", "2026-09-30", "2026-10-01", "2026-10-02", "2026-10-05", "2026-10-06", "2026-10-07", "2026-10-08", "2026-10-09", "2026-10-12", "2026-10-13", "2026-10-14", "2026-10-15", "2026-10-16", "2026-10-19", "2026-10-20", "2026-10-21", "2026-10-22", "2026-10-23", "2026-10-26", "2026-10-27", "2026-10-28", "2026-10-29", "2026-10-30", "2026-11-02", "2026-11-03", "2026-11-04", "2026-11-05", "2026-11-06", "2026-11-09"],
+        labels: ["2026-04-22", "2026-04-23", "2026-04-24", "2026-04-27", "2026-04-29", "2026-04-30", "2026-05-01", "2026-05-04", "2026-05-05", "2026-05-06", "2026-05-07", "2026-05-08", "2026-05-11", "2026-05-12", "2026-05-13", "2026-05-14", "2026-05-15", "2026-05-18", "2026-05-19", "2026-05-20", "2026-05-21", "2026-05-22", "2026-05-25", "2026-05-26", "2026-05-27", "2026-05-28", "2026-05-29", "2026-06-01", "2026-06-02", "2026-06-03", "2026-06-04", "2026-06-05", "2026-06-08", "2026-06-09", "2026-06-10", "2026-06-11", "2026-06-12", "2026-06-15", "2026-06-16", "2026-06-17", "2026-06-18", "2026-06-19", "2026-06-22", "2026-06-23", "2026-06-24", "2026-06-25", "2026-06-26", "2026-06-29", "2026-06-30", "2026-07-01", "2026-07-02", "2026-07-03", "2026-07-06", "2026-07-07", "2026-07-08", "2026-07-09", "2026-07-10", "2026-07-13", "2026-07-14", "2026-07-15", "2026-07-16", "2026-07-17", "2026-07-20", "2026-07-21", "2026-07-22", "2026-07-23", "2026-07-24", "2026-07-27", "2026-07-28", "2026-07-29", "2026-07-30", "2026-07-31", "2026-08-03", "2026-08-04", "2026-08-05", "2026-08-06", "2026-08-07", "2026-08-10", "2026-08-11", "2026-08-12", "2026-08-13", "2026-08-14", "2026-08-17", "2026-08-18", "2026-08-19", "2026-08-20", "2026-08-21", "2026-08-24", "2026-08-25", "2026-08-26", "2026-08-27", "2026-08-28", "2026-08-31", "2026-09-01", "2026-09-02", "2026-09-03", "2026-09-04", "2026-09-07", "2026-09-08", "2026-09-09", "2026-09-10", "2026-09-11", "2026-09-14", "2026-09-15", "2026-09-16", "2026-09-17", "2026-09-18", "2026-09-21", "2026-09-22", "2026-09-23", "2026-09-24", "2026-09-25", "2026-09-28", "2026-09-29", "2026-09-30", "2026-10-01", "2026-10-02", "2026-10-05", "2026-10-06", "2026-10-07", "2026-10-08", "2026-10-09", "2026-10-12", "2026-10-13", "2026-10-14", "2026-10-15", "2026-10-16", "2026-10-19", "2026-10-20", "2026-10-21", "2026-10-22", "2026-10-23", "2026-10-26", "2026-10-27", "2026-10-28", "2026-10-29", "2026-10-30", "2026-11-02", "2026-11-03", "2026-11-04", "2026-11-05", "2026-11-06", "2026-11-09", "2026-11-10"],
         datasets: [{
             label: 'Paper Trading 權益',
-            data: [198952.0, 198438.0, 203189.0, 204266.0, 202703.0, 207261.0, 207261.0, 209021.0, 209122.0, 210225.0, 213939.0, 211340.0, 217936.0, 218528.0, 216129.0, 216592.0, 213700.0, 216976.0, 214891.0, 214560.0, 221605.0, 224953.0, 228551.0, 229268.0, 233947.0, 232983.0, 234110.0, 237186.0, 237898.0, 237958.0, 237613.0, 237223.0, 236533.0, 237748.0, 236788.0, 236578.0, 236863.0, 237733.0, 238003.0, 237703.0, 237493.0, 237493.0, 237645.0, 237645.0, 237645.0, 237645.0, 237645.0, 237645.0, 237645.0, 237645.0, 237645.0, 237645.0, 237645.0, 237645.0, 237645.0, 237645.0, 239822.0, 234492.0, 234312.0, 246822.0, 237846.0, 223562.0, 215192.0, 220651.0, 226371.0, 222206.0, 214222.0, 217885.0, 207788.0, 200844.0, 195950.0, 194460.0, 194460.0, 194460.0, 194460.0, 194460.0, 194460.0, 194460.0, 194460.0, 194460.0, 194460.0, 194460.0, 194460.0, 194460.0, 194460.0, 194460.0, 194460.0, 194460.0, 194460.0, 194460.0, 194460.0, 194460.0, 194460.0, 194460.0, 194460.0, 194460.0, 194460.0, 194460.0, 194460.0, 194460.0, 194460.0, 194460.0, 194460.0, 194460.0, 194460.0, 194460.0, 194460.0, 194460.0, 194460.0, 194460.0, 194460.0, 194460.0, 194460.0, 194460.0, 194460.0, 194460.0, 194460.0, 194460.0, 194460.0, 194460.0, 194460.0, 194460.0, 194460.0, 194460.0, 194460.0, 194460.0, 194460.0, 194460.0, 194460.0, 194460.0, 194460.0, 195943.0, 195943.0, 196086.0, 197311.0, 197311.0, 193280.0, 193280.0, 194499.0, 187319.0, 188027.0, 181086.0, 172243.0],
+            data: [198952.0, 198438.0, 203189.0, 204266.0, 202703.0, 207261.0, 207261.0, 209021.0, 209122.0, 210225.0, 213939.0, 211340.0, 217936.0, 218528.0, 216129.0, 216592.0, 213700.0, 216976.0, 214891.0, 214560.0, 221605.0, 224953.0, 228551.0, 229268.0, 233947.0, 232983.0, 234110.0, 237186.0, 237898.0, 237958.0, 237613.0, 237223.0, 236533.0, 237748.0, 236788.0, 236578.0, 236863.0, 237733.0, 238003.0, 237703.0, 237493.0, 237493.0, 237645.0, 237645.0, 237645.0, 237645.0, 237645.0, 237645.0, 237645.0, 237645.0, 237645.0, 237645.0, 237645.0, 237645.0, 237645.0, 237645.0, 239822.0, 234492.0, 234312.0, 246822.0, 237846.0, 223562.0, 215192.0, 220651.0, 226371.0, 222206.0, 214222.0, 217885.0, 207788.0, 200844.0, 195950.0, 194460.0, 194460.0, 194460.0, 194460.0, 194460.0, 194460.0, 194460.0, 194460.0, 194460.0, 194460.0, 194460.0, 194460.0, 194460.0, 194460.0, 194460.0, 194460.0, 194460.0, 194460.0, 194460.0, 194460.0, 194460.0, 194460.0, 194460.0, 194460.0, 194460.0, 194460.0, 194460.0, 194460.0, 194460.0, 194460.0, 194460.0, 194460.0, 194460.0, 194460.0, 194460.0, 194460.0, 194460.0, 194460.0, 194460.0, 194460.0, 194460.0, 194460.0, 194460.0, 194460.0, 194460.0, 194460.0, 194460.0, 194460.0, 194460.0, 194460.0, 194460.0, 194460.0, 194460.0, 194460.0, 194460.0, 194460.0, 194460.0, 194460.0, 194460.0, 194460.0, 195943.0, 195943.0, 196086.0, 197311.0, 197311.0, 193280.0, 193280.0, 194499.0, 187319.0, 188027.0, 181086.0, 172243.0, 171556.0],
             borderColor: '#60a5fa',
             backgroundColor: 'rgba(96, 165, 250, 0.1)',
             fill: true,
@@ -442,7 +442,7 @@ new Chart(ctx, {
             borderWidth: 2,
         }, {
             label: '初始資金',
-            data: [200000, 200000, 200000, 200000, 200000, 200000, 200000, 200000, 200000, 200000, 200000, 200000, 200000, 200000, 200000, 200000, 200000, 200000, 200000, 200000, 200000, 200000, 200000, 200000, 200000, 200000, 200000, 200000, 200000, 200000, 200000, 200000, 200000, 200000, 200000, 200000, 200000, 200000, 200000, 200000, 200000, 200000, 200000, 200000, 200000, 200000, 200000, 200000, 200000, 200000, 200000, 200000, 200000, 200000, 200000, 200000, 200000, 200000, 200000, 200000, 200000, 200000, 200000, 200000, 200000, 200000, 200000, 200000, 200000, 200000, 200000, 200000, 200000, 200000, 200000, 200000, 200000, 200000, 200000, 200000, 200000, 200000, 200000, 200000, 200000, 200000, 200000, 200000, 200000, 200000, 200000, 200000, 200000, 200000, 200000, 200000, 200000, 200000, 200000, 200000, 200000, 200000, 200000, 200000, 200000, 200000, 200000, 200000, 200000, 200000, 200000, 200000, 200000, 200000, 200000, 200000, 200000, 200000, 200000, 200000, 200000, 200000, 200000, 200000, 200000, 200000, 200000, 200000, 200000, 200000, 200000, 200000, 200000, 200000, 200000, 200000, 200000, 200000, 200000, 200000, 200000, 200000, 200000],
+            data: [200000, 200000, 200000, 200000, 200000, 200000, 200000, 200000, 200000, 200000, 200000, 200000, 200000, 200000, 200000, 200000, 200000, 200000, 200000, 200000, 200000, 200000, 200000, 200000, 200000, 200000, 200000, 200000, 200000, 200000, 200000, 200000, 200000, 200000, 200000, 200000, 200000, 200000, 200000, 200000, 200000, 200000, 200000, 200000, 200000, 200000, 200000, 200000, 200000, 200000, 200000, 200000, 200000, 200000, 200000, 200000, 200000, 200000, 200000, 200000, 200000, 200000, 200000, 200000, 200000, 200000, 200000, 200000, 200000, 200000, 200000, 200000, 200000, 200000, 200000, 200000, 200000, 200000, 200000, 200000, 200000, 200000, 200000, 200000, 200000, 200000, 200000, 200000, 200000, 200000, 200000, 200000, 200000, 200000, 200000, 200000, 200000, 200000, 200000, 200000, 200000, 200000, 200000, 200000, 200000, 200000, 200000, 200000, 200000, 200000, 200000, 200000, 200000, 200000, 200000, 200000, 200000, 200000, 200000, 200000, 200000, 200000, 200000, 200000, 200000, 200000, 200000, 200000, 200000, 200000, 200000, 200000, 200000, 200000, 200000, 200000, 200000, 200000, 200000, 200000, 200000, 200000, 200000, 200000],
             borderColor: '#475569',
             borderDash: [5, 5],
             fill: false,
